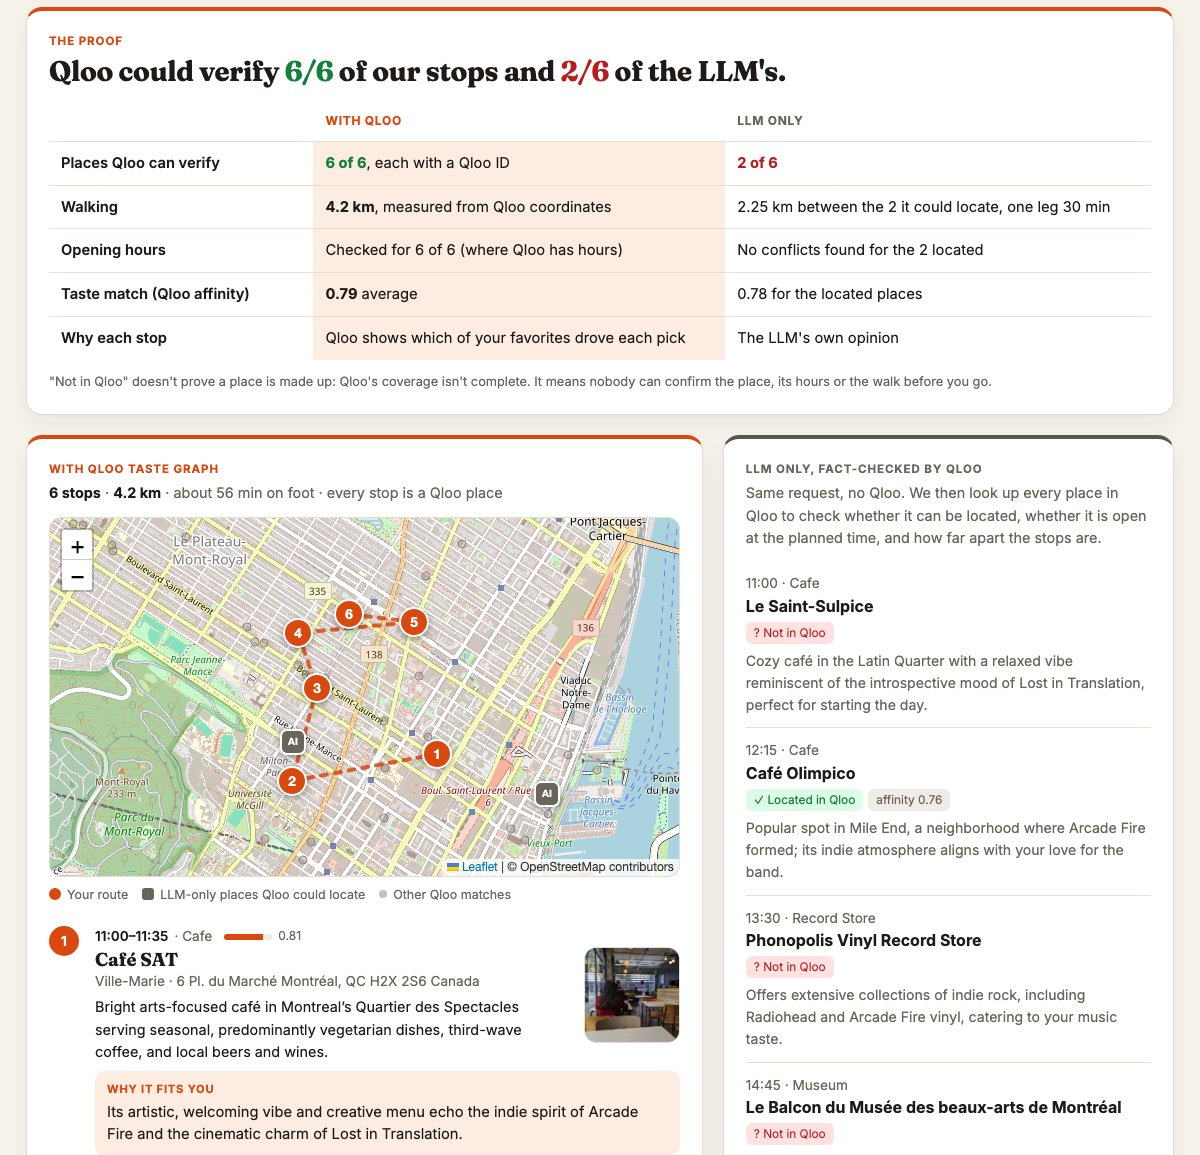
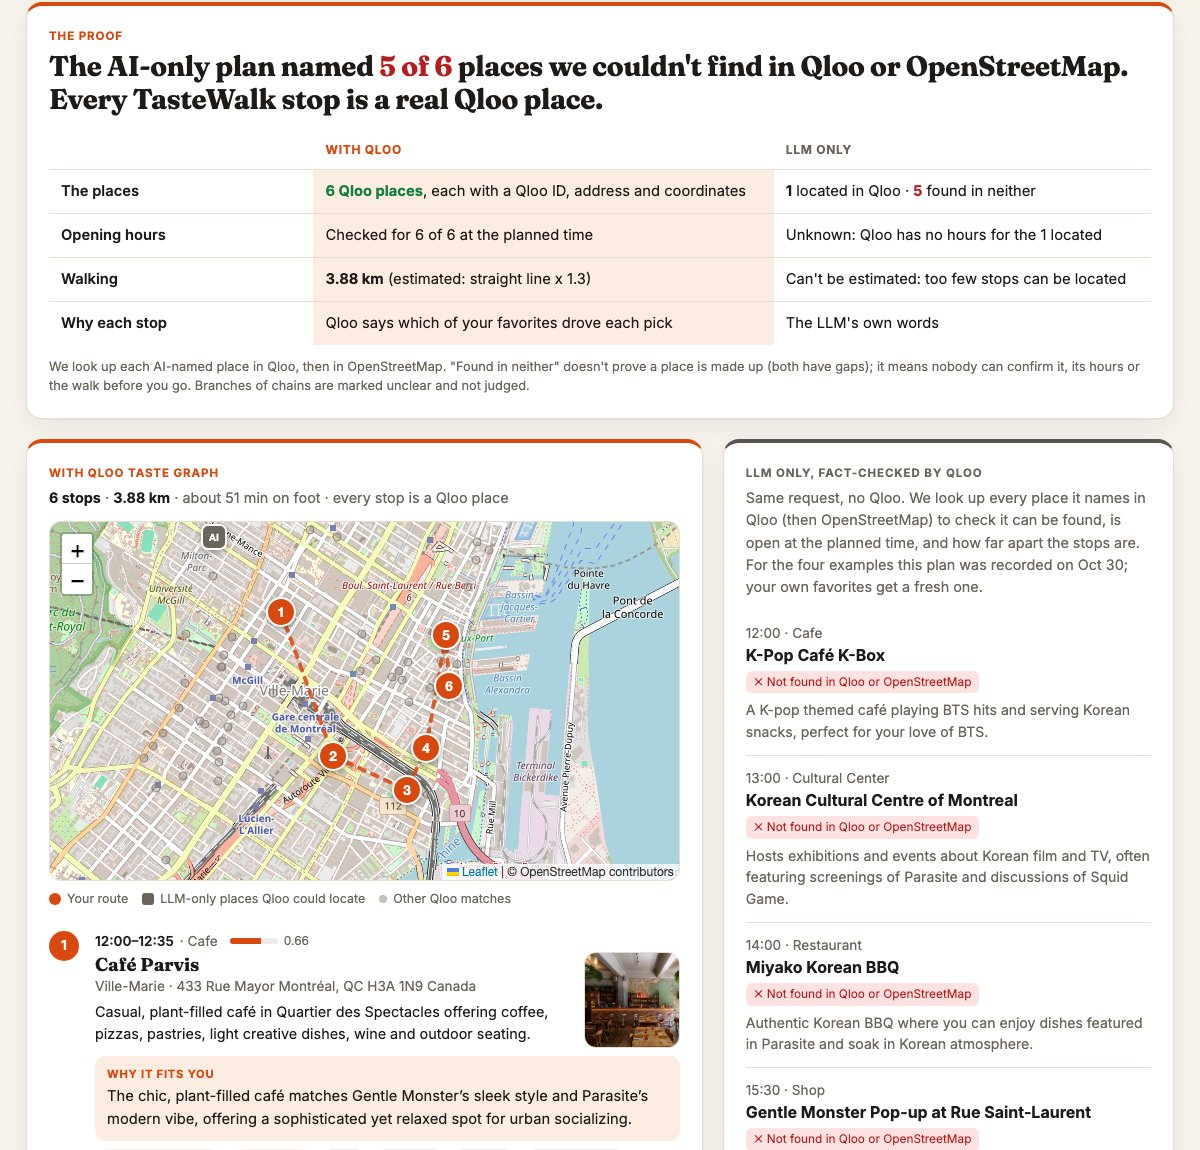
Docs: honest proof (Qloo + OpenStreetMap verdicts per LLM place), named buyer, new hero
Numbers regenerated from docs/results/fact_check_examples.json, which now lists every
LLM-named place and its verdict. Drops the circular 24/24 headline and the taste-match row.

diff --git a/docs/devpost/description.md b/docs/devpost/description.md
@@ -3,7 +3,7 @@
 <!-- Numbers come from docs/results/fact_check_examples.json. Keep claims verifiable. -->
 
 **Elevator pitch (≤200 chars):**
-Tell it what you love; get a walkable day in Montreal built from Qloo's taste graph, then watch Qloo fact-check an AI-only plan: 24/24 of our stops verified vs 4/24 of the AI's.
+Turn what you love into a walkable Montreal day from Qloo's taste graph, then fact-check an AI-only plan: half the places it named couldn't be found in Qloo or OpenStreetMap.
 
 ## Inspiration
 Every "things to do in Montreal" list is the same: the same basilica, the same bagel shops, the
@@ -23,22 +23,23 @@ walkable day in the city:
   times, walking minutes and opening hours checked, on a map and a timeline.
 - **"Why it fits you" cards**: Qloo's explainability says which of *your* favorites drove each
   pick; the LLM only turns those facts into a sentence.
-- **The proof**: the same request goes to an LLM with no Qloo. Then a fact-checker looks up every
-  place the LLM named in Qloo: can it be located, is it open at the planned time, how far apart
-  are the stops, how well does it match your taste. A scorecard puts both plans side by side.
+- **The proof**: the same request goes to an LLM with no Qloo. A fact-checker looks up every
+  place it named in Qloo, then OpenStreetMap: can it be found, is it open at the planned time,
+  how far apart are the stops. A scorecard puts both plans side by side.
 
-Try it: open the live demo and click an example card, e.g. "Indie music & arthouse film".
+Try it: open the live demo and click an example card, e.g. "K-pop & Korean film".
 
-## Results (4 example profiles, one run each, Oct 30)
-| | With Qloo | LLM only |
+## Results (4 example profiles, Oct 30; LLM-only plans recorded so the demo matches)
+| | TasteWalk (Qloo) | LLM only |
 |---|---|---|
-| Stops Qloo can verify (place, coordinates, Qloo ID) | **24 of 24** | **4 of 24** |
-| Opening hours checked at the planned time | 24 of 24 | only for the 4 located |
-| Walking distance | measured: 2.8-4.8 km per day | can't be measured for most stops |
-| Taste match (Qloo affinity, where comparable) | higher in 3 of 3 (0.79/0.81/0.76) | 0.78/0.73/0.62 |
+| Can the place be found? | 24 of 24 Qloo places (by construction) | 4 in Qloo (2 chains, branch unclear) · 8 only on OpenStreetMap · **12 in neither** |
+| Opening hours at the planned time | checked for 23 of 24 | checkable for at most 2 |
+| Walking | estimated for every leg | can't be estimated for most stops |
+| Why each stop | which of your favorites drove it (Qloo explainability) | the LLM's own words |
 
-"Not in Qloo" doesn't prove a place is invented: Qloo's coverage isn't complete, and we say so in
-the app. It means nobody can confirm the place, its hours or the walk before you go.
+"Found in neither" doesn't prove a place is invented (both sources have gaps), and the app says
+so. It means nobody can confirm the place, its hours or the walk before you go. Every LLM-named
+place and its verdict is in the repo (docs/results/fact_check_examples.json).
 
 ## How we built it
 - **Taste agent**: Qloo `GET /search` resolves each favorite to an entity. Qloo `GET /v2/insights`
@@ -46,14 +47,15 @@ the app. It means nobody can confirm the place, its hours or the walk before you
   a radius, `filter.tags` per day slot, `feature.explainability=true`) returns candidate places
   with coordinates, hours, affinity and which favorites drove each one.
 - **Planner agent**: code picks the most walkable cluster; an LLM picks a varied set *by Qloo ID
-  only* (anything else is dropped); code orders the day, schedules times, and swaps out stops
-  that would be closed on arrival.
+  only* (anything else is dropped); code enforces a day's rhythm (one coffee, one meal, drinks
+  last, no chains), orders the walk, schedules times, and swaps out stops closed on arrival.
 - **Critic agent**: explainability shares become "because you love X" chips; the LLM writes a
   short explanation from Qloo facts only; code checks leg length, total walking and hours.
-- **Baseline + fact-checker**: the LLM answers alone; then Qloo `GET /search` locates each named
-  place (strict name matching, so a liquor store inside a market doesn't count as the market),
-  Qloo insights with `filter.results.entities` scores those exact places against the user's
-  favorites, and the same routing code measures the walk.
+- **Baseline + fact-checker** (code, no LLM): the LLM answers alone; then Qloo `GET /search`
+  locates each named place (strict matching: "Atwater Market" is not "Atwater Cocktail Club",
+  chains with several branches are marked unclear), OpenStreetMap is the second source for
+  places Qloo doesn't know, Qloo insights with `filter.results.entities` scores the located ones,
+  and the same routing code checks hours and walking.
 - Python, FastAPI with Server-Sent Events (you watch each agent work), Pydantic-validated JSON
   from the LLM (Groq, `openai/gpt-oss-120b`, through an OpenAI-compatible client), a server-side
   cache for every API call, Leaflet + OpenStreetMap, Docker on Render.
@@ -72,27 +74,39 @@ categories, hours), and insights restricted to specific entities to audit anothe
 - **Explaining "why" honestly**: favorites and places share almost no tag IDs in Qloo (genres vs
   ambience tags), so tag overlap was useless. Qloo's explainability feature turned out to be the
   answer: it reports how much each favorite drove each recommendation.
-- **Fair fact-checking**: Qloo's search is fuzzy ("Phonopolis" returned a Ferris wheel), so a
-  naive match would accuse the LLM of things it didn't do. We match names strictly and say
-  "not in Qloo", never "doesn't exist".
+- **Fair fact-checking**: Qloo's search is fuzzy ("Phonopolis" returned a Ferris wheel), and our
+  own simulated judges caught our first matcher calling "Atwater Market" closed because it
+  matched a cocktail bar. We now match names strictly, mark chains as unclear, and check
+  OpenStreetMap before saying a place can't be found. "Not in Qloo" is never "made up".
+- **Days that make sense**: Qloo categories are fine-grained ("Italian restaurant", "Steak
+  house"), so per-category caps let through two lunches. We group stops into coffee, meal,
+  drinks and other, with quotas and a day order.
 - **Free-tier limits**: one LLM provider's free tier allowed 20 requests a day, which we used up
   in testing. We switched to Groq, retry on rate limits, and fall back to Qloo-only text if the
   LLM is unavailable, so the route always works.
 - **Qloo's data terms**: Qloo responses can't be stored in a public repo, so the server caches
   them privately and warms the example profiles at startup.
 
+## Who it's for
+- **Visitors and locals**: a day that feels picked by a friend who shares your taste.
+- **Destination marketers (e.g. Tourisme Montréal), hotels and concierge apps**: embed it as a
+  "local friend" itinerary that routes visitors past the top-10 list to independent places,
+  each recommendation explainable. The same Qloo insights run in reverse answer "which visitors
+  would love this neighbourhood or business?".
+
 ## Accomplishments we're proud of
-- The scorecard turns "Qloo makes it better" into numbers a judge can check in the app.
+- The scorecard turns "Qloo makes it better" into checks a judge can see in the app.
 - Every recommendation is traceable: Qloo ID, affinity and the favorites that drove it.
-- Each plan streams live: you watch five agents work in sequence.
+- Each plan streams live: you watch three agents, the baseline and the fact-checker work.
 
 ## What we learned
 - A taste graph's real superpower for agents is grounding: the LLM is much more useful choosing
   and explaining among real, scored options than generating them.
 - Explainability matters more than more data: "because you love Amélie" is more convincing
   than any generated paragraph.
-- Measure the comparison. The taste-match gap between plans was smaller than we expected; the
-  big gaps were verifiability, hours and walking, so that's what we lead with.
+- Measure the comparison, and audit your own auditor. The taste-match gap between plans was
+  too small to claim anything, so we dropped it; the real gaps were whether places can be found,
+  their hours and the walk.
 
 ## What's next
 - More cities (only the city centre and radius are city-specific).
@@ -101,4 +115,4 @@ categories, hours), and insights restricted to specific entities to audit anothe
   same insights in reverse.
 
 ## Built with
-python, fastapi, pydantic, qloo, groq, gpt-oss, server-sent-events, leaflet, openstreetmap, docker, render
+python, fastapi, pydantic, qloo, groq, gpt-oss, openstreetmap, nominatim, server-sent-events, leaflet, docker, render

diff --git a/README.md b/README.md
@@ -1,5 +1,5 @@
 <h1 align="center">TasteWalk</h1>
-<p align="center"><b>Tell it what you love. Get a walkable day built around your taste, not the tourist list.<br>Then watch Qloo fact-check what an AI alone would have told you.</b></p>
+<p align="center"><b>Tell it what you love. Get a walkable day built around your taste, not the tourist list.<br>Then see what an AI alone would have told you, fact-checked.</b></p>
 
 <p align="center">
   <a href="https://tastewalk-fy6u.onrender.com/?example=indie"><b>Live demo</b></a> ·
@@ -15,27 +15,37 @@ Built for the **Qloo Agentic Hackathon 2026**. First city: Montreal.
 ![TasteWalk results: Qloo-vs-LLM scorecard, walking route and why-it-fits cards](docs/img/hero.jpg)
 
 ## What it does
-You enter a few favorites (artists, films, shows, books, brands). Five agents then:
-1. **Profile** your taste: each favorite is resolved to a Qloo entity.
-2. **Find** places in Montreal that people with that taste love, for each part of the day.
-3. **Plan** a realistic walk: one walkable area, a day rhythm, real times, closed places swapped out.
-4. **Explain** each stop: Qloo's explainability says which of *your* favorites drove the pick.
-5. **Fact-check** an LLM-only plan for the same request: Qloo looks up every place the LLM named.
+You enter a few favorites (artists, films, shows, books, brands). Then:
+1. **Taste agent** resolves each favorite to a Qloo entity and asks Qloo for places in Montreal
+   that people with that taste love, for each part of the day.
+2. **Planner agent** picks a varied day (one coffee, one meal, drinks last, no chains) by Qloo ID,
+   orders it as a walk, schedules real times and swaps out places closed on arrival.
+3. **Critic agent** explains each stop: Qloo's explainability says which of *your* favorites
+   drove the pick, and the LLM turns that into a sentence.
+4. **Baseline**: the same request goes to an LLM with no Qloo.
+5. **Fact-checker** (code, no LLM) looks up every place the LLM named in Qloo, then in
+   OpenStreetMap, and checks hours and walking for those it can locate.
 
 ## The proof
-Four example profiles, one run each (Oct 30), from
-[docs/results/fact_check_examples.json](docs/results/fact_check_examples.json):
+Four example profiles (Oct 30; the LLM-only plans are
+[frozen](src/tastewalk/example_baselines.json) so the demo shows the same numbers), from
+[docs/results/fact_check_examples.json](docs/results/fact_check_examples.json), which lists
+every LLM-named place and its verdict:
 
-| | With Qloo | LLM only |
+| | TasteWalk (Qloo) | LLM only |
 |---|---|---|
-| Stops Qloo can verify (place, coordinates, Qloo ID) | **24 of 24** | **4 of 24** |
-| Opening hours checked at the planned time | 24 of 24 | only the 4 located |
-| Walking distance | measured, 2.8-4.8 km per day | can't be measured for most stops |
-| Taste match (Qloo affinity, where comparable) | higher in 3 of 3 | lower |
+| Stops | 24 Qloo places, each with an ID, address and coordinates | 24 named places |
+| Can the place be found? | all 24 (by construction) | **4** in Qloo (2 are chains, branch unclear) · **8** only on OpenStreetMap · **12 in neither** |
+| Opening hours at the planned time | checked for 23 of 24 | checkable for at most 2 |
+| Walking | estimated for every leg (2.7-4.2 km per day) | can't be estimated for most stops |
+| Why each stop | which of your favorites drove the pick (Qloo explainability) | the LLM's own words |
 
-"Not in Qloo" doesn't prove a place is invented: Qloo's coverage isn't complete. It means nobody
-can confirm the place, its hours or the walk before you go. The taste-match gap is small
-(e.g. 0.79 vs 0.78 for the indie profile); the large gaps are verifiability, hours and walking.
+The first column is grounded by construction: that is the point. The question is what you get
+without Qloo. "Found in neither" doesn't prove a place is invented (both sources have gaps, e.g.
+Le Bremner, a real restaurant, is in neither); it means nobody can confirm the place, its hours or
+the walk before you go. Matching is strict on purpose (a wrong match would make false claims), so
+some real places are missed. We dropped a taste-match comparison: on the few LLM places Qloo could
+locate, Qloo's affinity was similar to our picks, so it showed nothing.
 
 ## What makes it Qloo-powered
 Every stop on the TasteWalk route comes from Qloo and carries a Qloo entity ID. The LLM can only
@@ -48,7 +58,7 @@ recommend, explain or fact-check.
 | Candidates | `GET /v2/insights` with `filter.type=urn:entity:place`, `signal.interests.entities`, `filter.location=POINT(lon lat)` + radius, `filter.tags` per day slot | places with coordinates, hours, affinity |
 | "Why it fits" | `feature.explainability=true` | share of each favorite in each recommendation |
 | Vibe and category | place tags (ambience, setting, category) | chips, slots, filters |
-| Fact-check | `GET /search` for each LLM-named place, then `GET /v2/insights` with `filter.results.entities` | locate and score another plan's places |
+| Fact-check | `GET /search` for each LLM-named place, then `GET /v2/insights` with `filter.results.entities` | locate and score another plan's places (OpenStreetMap as a second source) |
 
 Verified API notes: [docs/research/01-qloo-api.md](docs/research/01-qloo-api.md).
 
@@ -112,16 +122,21 @@ A GitHub Actions job pings `/healthz` every 10 minutes (set the repo variable `D
 
 ## Honest limitations
 - **Montreal only** for now; the city centre and search radius are configured in code.
-- **Walking distance** is straight-line distance x 1.3, not real street routing.
-- **Opening hours** are checked only when Qloo returns them (all 24 example stops had them).
+- **Walking distance** is an estimate: straight-line distance x 1.3, not street routing.
+- **Opening hours** are checked only when Qloo returns them (23 of the 24 example stops).
 - **Time at each stop** uses simple per-category estimates.
 - **Qloo coverage**: some real places aren't in Qloo, so the fact-checker says "not in Qloo",
   never "doesn't exist". Name matching is strict on purpose and can miss a real match.
-- **Results** are 4 profiles, one run each; the LLM-only plan changes from run to run.
+- **Results** are 4 profiles with one recorded LLM-only plan each; a fresh LLM plan differs
+  from run to run (custom favorites always get a fresh one).
+- **Independent places**: a short list of chains (H&M, Starbucks...) is excluded by design;
+  Qloo's popularity score couldn't separate chains from local favorites.
+- **The LLM-only baseline** is a plain one-shot prompt; it isn't told the weekday, and is
+  checked against today's hours.
 
 ## Repo map
 - `src/tastewalk/` - agents: `taste_agent.py`, `planner.py`, `critic.py`, `baseline.py`,
-  `fact_check.py`; clients: `qloo.py`, `llm.py`; `routing.py`, `loop.py` (orchestration)
+  `fact_check.py`; clients: `qloo.py`, `llm.py`, `osm.py`; `routing.py`, `loop.py` (orchestration)
 - `app/` - FastAPI + SSE server and the single-page UI
 - `docs/` - architecture, research, results, Devpost draft
 - `tests/` - pytest suite (no network; Qloo and the LLM are mocked)
